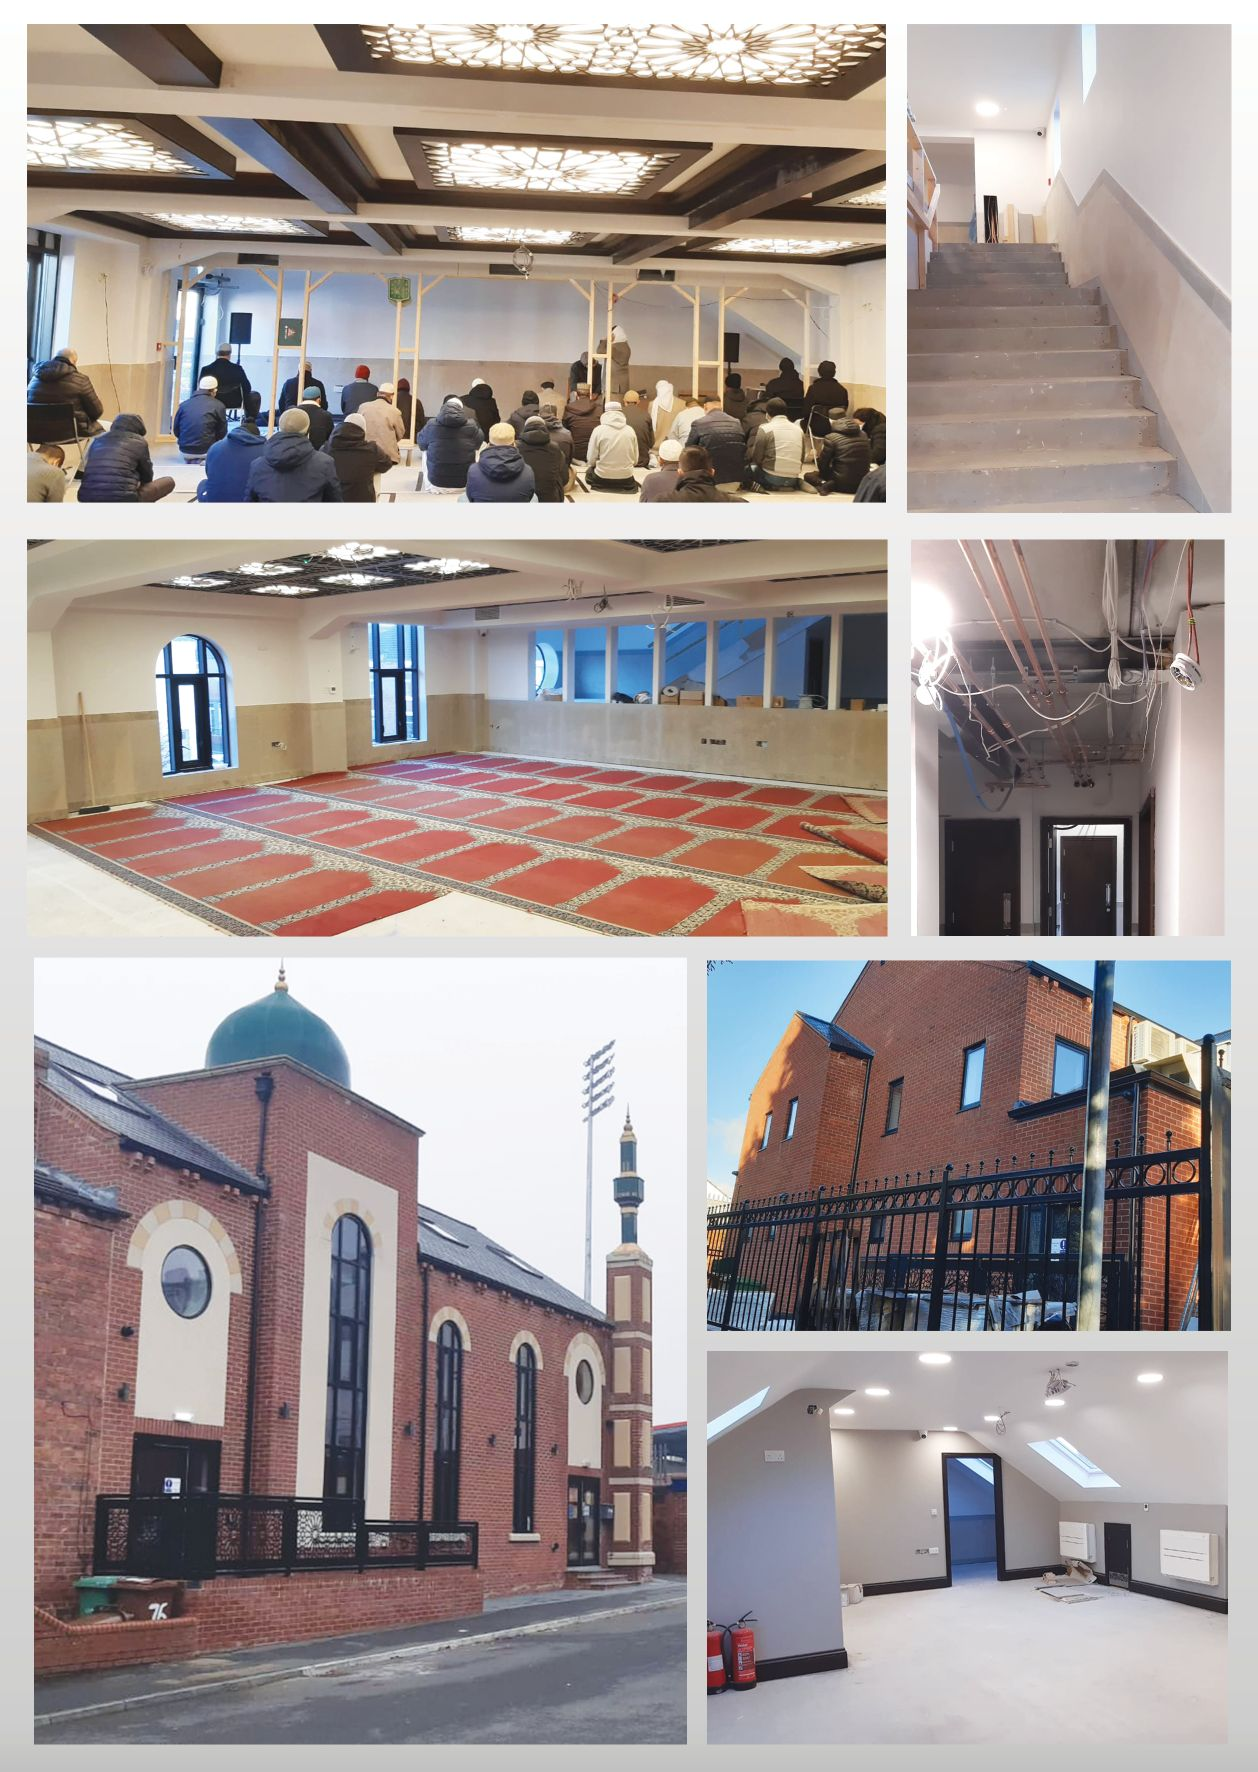
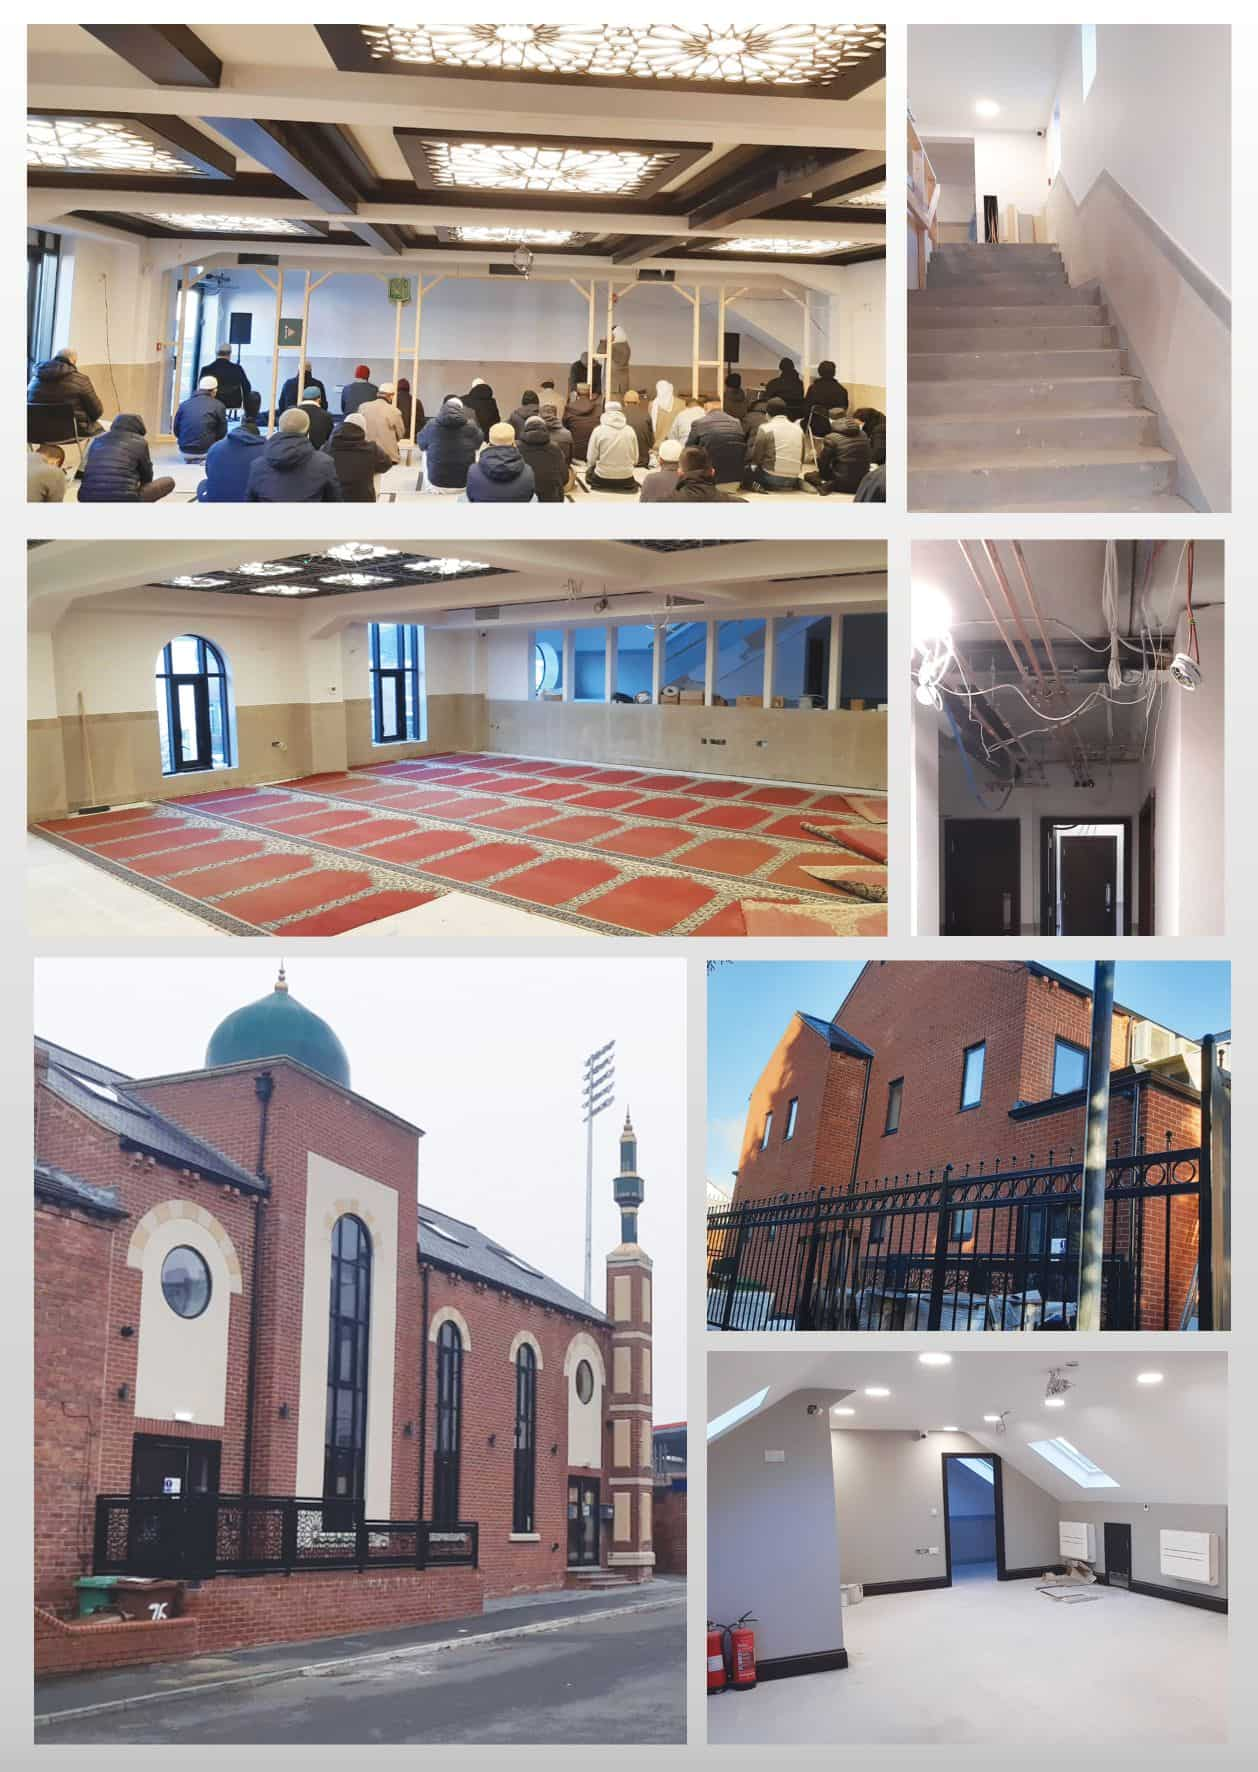
compressed images for seo

Changed region(s): [[0.558, 0.6828, 0.589, 0.7139]]

diff --git a/contact.html b/contact.html
@@ -69,6 +69,11 @@
   <section class="section-hero container__landing-page">
   </section>
   <section class="prayer__timetable-section">
+    <img
+        class="main__img"
+        src="./assets/about.jpg"
+        alt="Photo of the inside of the Masjid"
+        />
     <div class="prayer__timetable--row">
       <div class="prayer__timetable--wrapper">
         <h1 class="prayer__time--heading">Prayer Start Times Today</h1>
